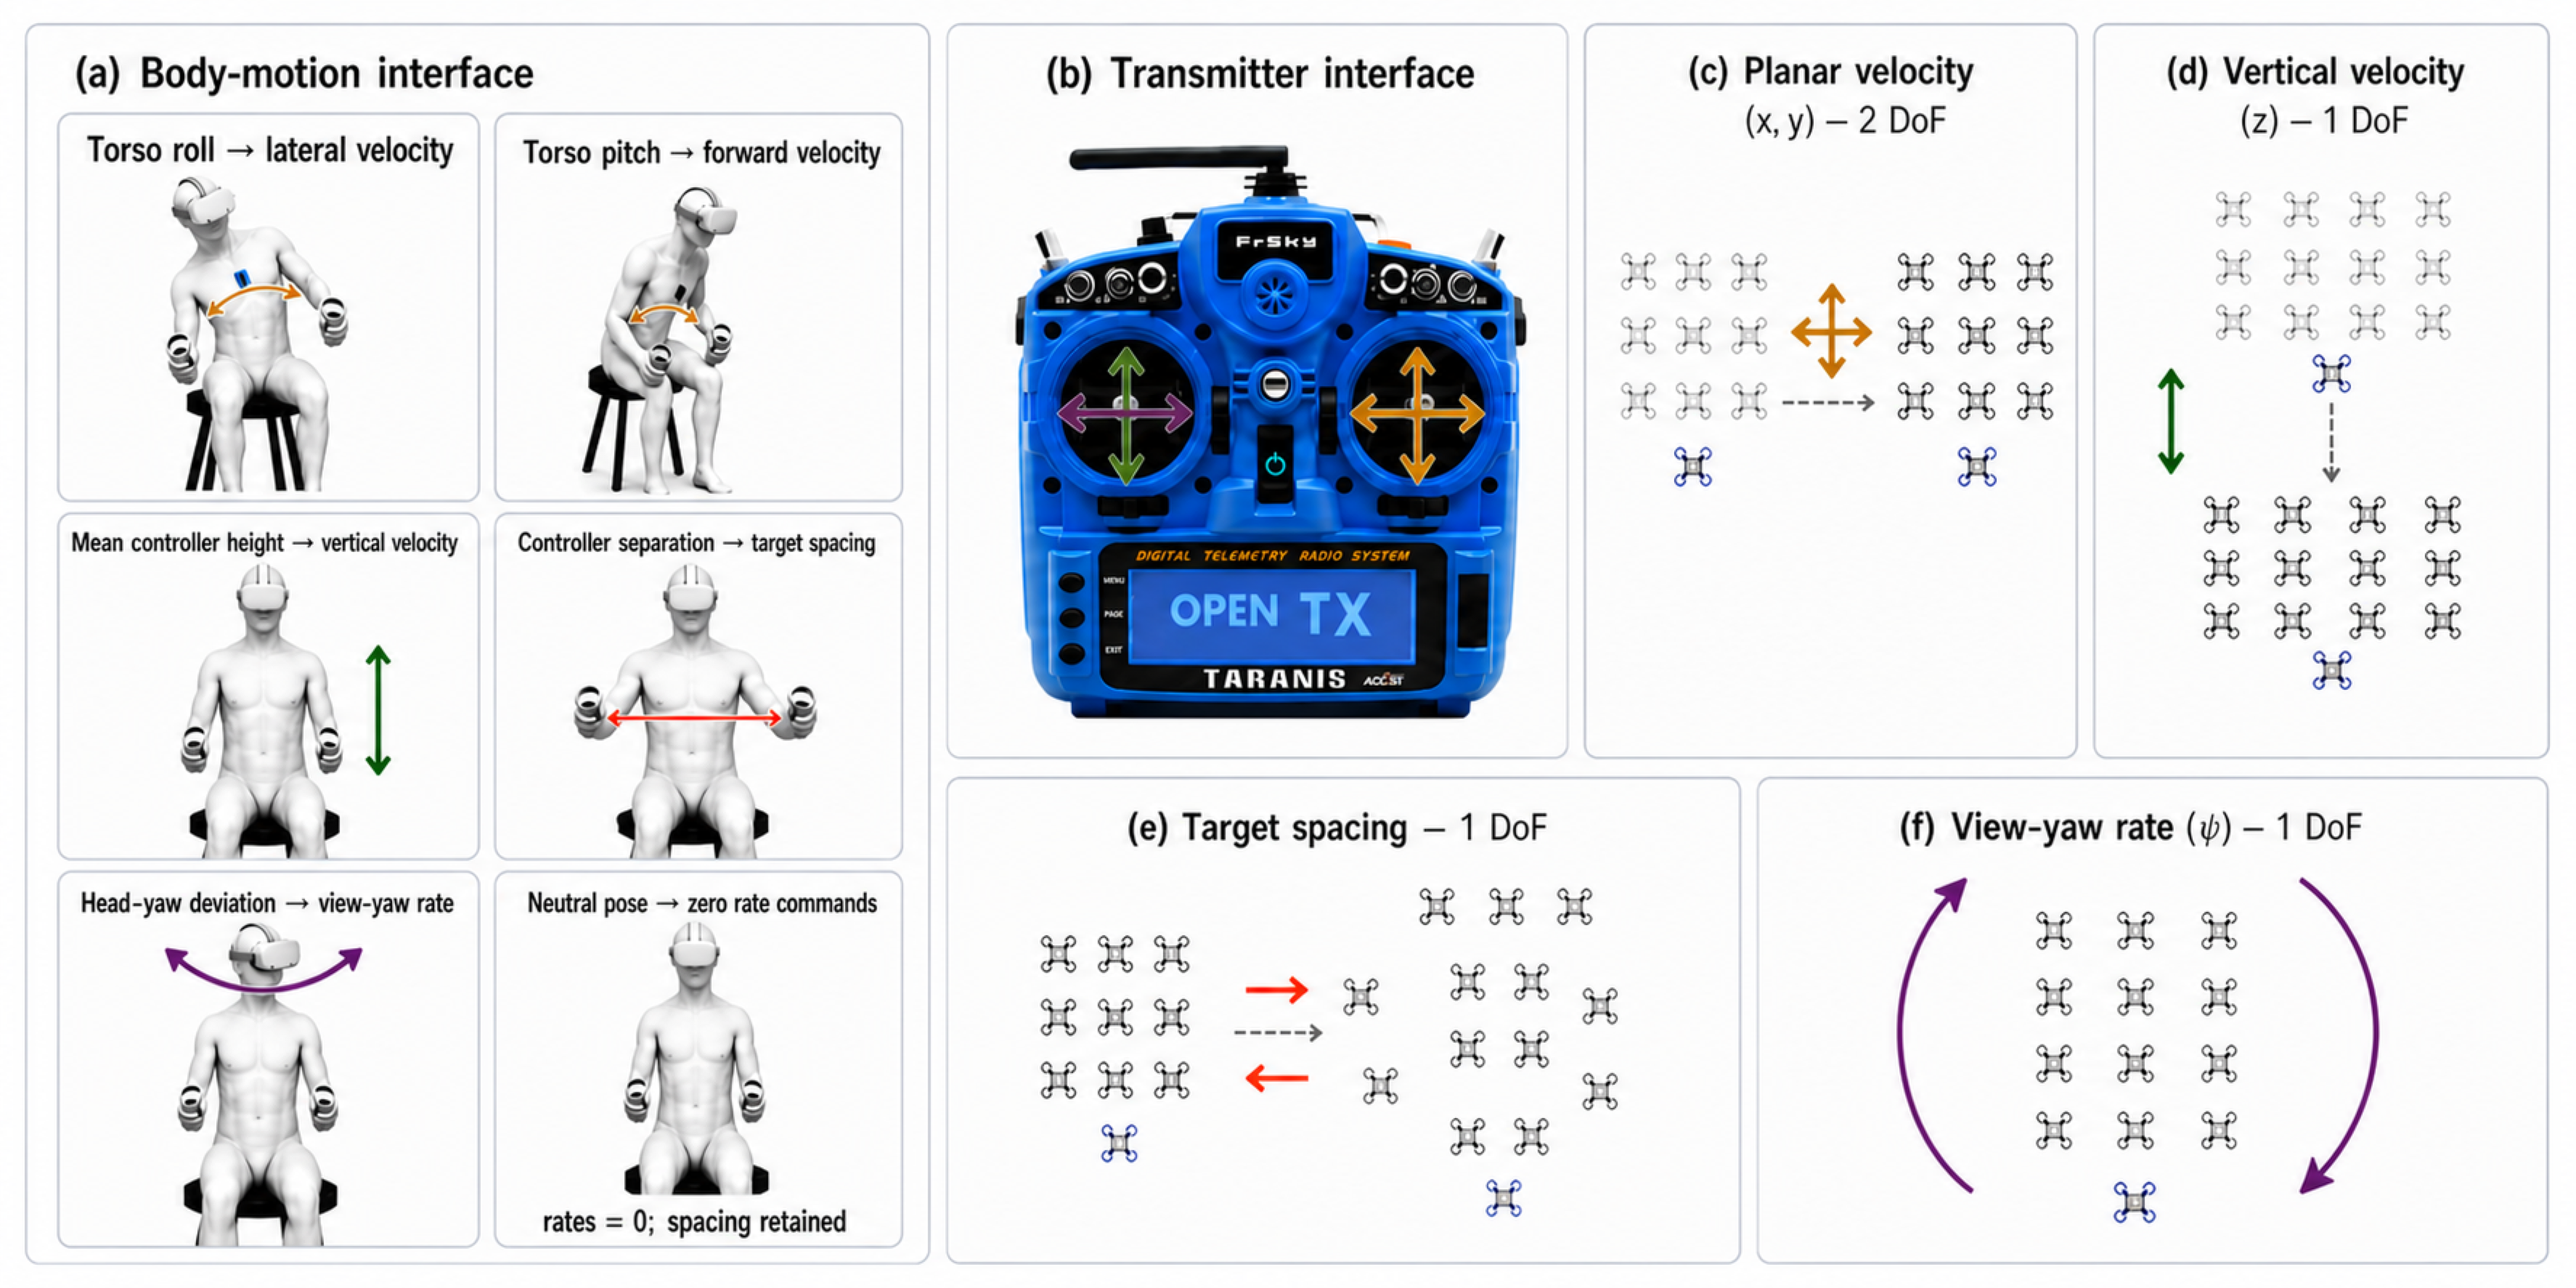
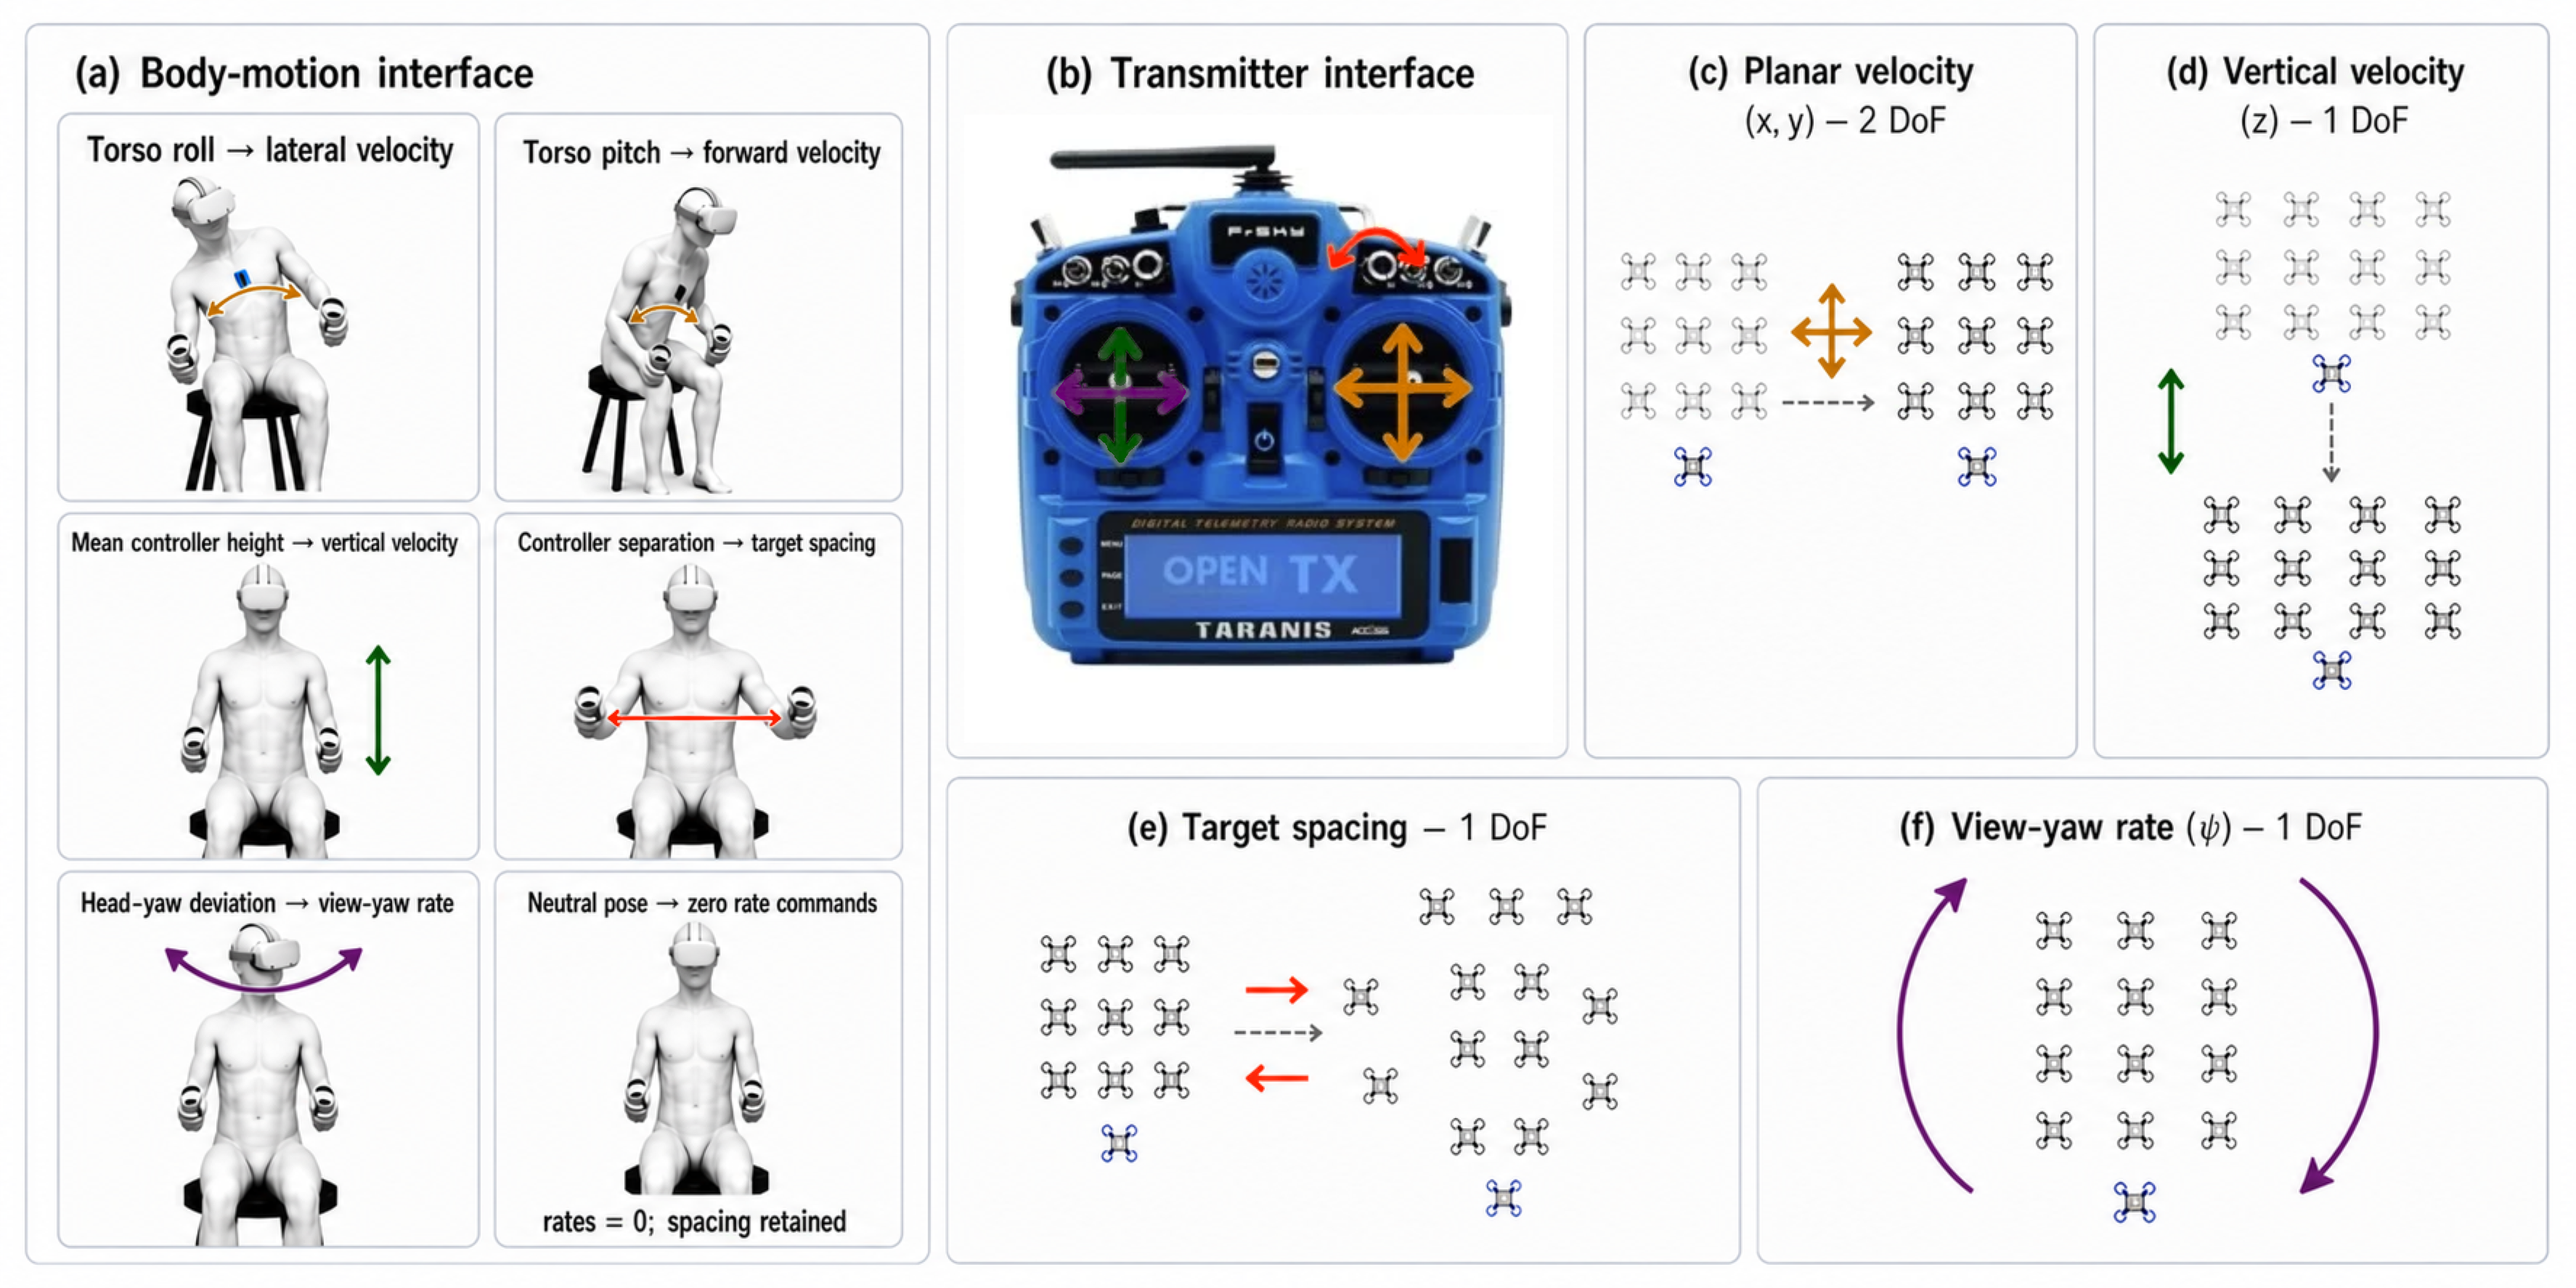
more

Changed region(s): [[0.372, 0.093, 0.5891, 0.5581]]

diff --git a/main.tex b/main.tex
@@ -81,8 +81,7 @@ streamed from a \emph{focal agent}, the swarm member whose onboard camera
 currently supplies the operator's view. The source can transfer if that agent
 becomes unavailable~\cite{ben_focaldrone}. However, the limited field of view
 and occlusions hide parts of the swarm and environment, while the viewpoint
-moves, rotates, and may transfer between agents. FPV therefore limits global
-awareness while the operator coordinates several swarm DOF.
+moves, rotates, and may transfer between agents.
 
 \begin{figure}[!t]
 \centering
@@ -174,22 +173,17 @@ filtering differed.
 \begin{figure*}[t]
 \centering
 \includegraphics[width=\textwidth]{Figures/hom.png}
-\caption{Body-to-swarm control mappings. Panels (a)--(e) map torso roll, torso
-pitch, mean controller height, controller separation, and head-yaw deviation to
-lateral velocity, forward velocity, vertical velocity, target spacing, and
-view-yaw rate, respectively. Panel (f) shows the neutral pose, which produces
-zero rate commands while retaining the current spacing setpoint. Faded
-formations illustrate the commanded translation, spacing change, or view
-rotation.}
+\caption{Control mappings for the body-motion and transmitter interfaces:
+(a) body-to-swarm mappings, (b) transmitter mappings, and (c)--(f) the
+resulting swarm translation, spacing, and view rotation.}
 \label{fig:mapping}
 \end{figure*}
 
 \subsection{Body-to-Swarm Mapping}
 \label{sec:mapping} 
-The mapping was designed to provide intuitive spatial correspondence and allow
-vseveral commands to be used simultaneously. Building on previous body-motion drone interfaces that mapped torso inclination to aircraft pitch and roll\cite{rognon2018flyjacket}, we mapped forward, backward, and lateral leaning to the corresponding planar motion of the swarm. Raising or lowering
-both hands controlled vertical motion, while hand separation controlled agent
-spacing. Because participants were seated, head rotation provided a natural
+The mapping was designed to provide intuitive spatial correspondence and allows several commands to be used simultaneously. Building on previous body-motion drone interfaces that mapped torso inclination to aircraft pitch and roll\cite{rognon2018flyjacket}, we mapped forward, backward, and lateral leaning to the corresponding planar motion of the swarm. Raising or lowering
+both hands were designed to control the vertical motion, while hand separation was used for agent
+spacing. Because in teleoperation participants are ususally in a fixed position, head rotation can provide a natural
 input for FPV yaw. Participant-specific calibration accounted for differences
 in posture and range of motion.
 
@@ -471,11 +465,7 @@ intentional coordination.
 \centering
 \includegraphics[width=0.9\columnwidth]
 {Figures/fig_subjective_responses.png}
-\caption{Comparative responses after both interface blocks (n = 14). The
-upper bar shows interface preference, and the lower bar shows the interface
-associated with greater motion sickness. Neutral denotes no preference in
-the upper bar and no difference in motion sickness in the lower bar. Counts
-are descriptive; no inferential comparison was performed.}
+\caption{Comparative responses after both interface blocks (n = 14). The upper bar shows interface preference, and the lower bar shows the interface associated with greater motion sickness. Neutral denotes no preference.}
 \label{fig:subjective_responses}
 \end{figure}
 
@@ -536,7 +526,7 @@ mixed (Fig.~\ref{fig:subjective_responses}).
 \centering
 \includegraphics[width=0.9\textwidth]
 {Figures/yeah.png}
-\caption{Representative 90$^\circ$ turn for P02, shown from 5~s before G5 to the G6 crossing. (a) Top-view swarm-centroid trajectories. (b) Delivered commands aligned to G5 ($t=0$); solid blue indicates body motion and dashed orange indicates the transmitter. Vertical lines mark the G6 crossings. The lower panel shows whether the delivered forward command was positive (ON) or non-positive (OFF). It was ON for 95.5\% of the displayed body-motion interval and 61.3\% of the displayed transmitter interval.}
+\caption{Representative 90$^\circ$ turn, shown from 5~s before G5 to the G6 crossing. (a) Top-view swarm-centroid trajectories. (b) Delivered commands aligned to G5 ($t=0$); solid blue indicates body motion and dashed orange indicates the transmitter. Vertical lines mark the G6 crossings. The lower panel shows whether the delivered forward command was positive (ON) or non-positive (OFF). It was ON for 95.5\% of the displayed body-motion interval and 61.3\% of the displayed transmitter interval.}
 \label{fig:traj_gate}
 \end{figure*}
 
@@ -558,7 +548,7 @@ paths and (b) gate-aligned heights under each interface. Thin lines show
 non-focal agents, thick lines show the focal agent, and black markers show gate
 locations and vertical openings.}
 \label{fig:trajectory_overlays}
-\end{figure}
+\end{figure}m
 The trajectory improvement was concentrated in the vertical dimension. The
 larger vertical reversals in Fig.~\ref{fig:trajectory_overlays}(b) are
 consistent with repeated altitude corrections under transmitter control,
@@ -592,7 +582,9 @@ suggesting that physical demand reduced the appeal of the efficiency gain for
 some operators. Future designs could reduce the required arm movement by
 increasing the hand-height gain, although higher gains may reduce fine control.
 
-The main practical benefit is not access to additional commands, because both interfaces controlled the same five DOF, but the ability to combine them in time. In Fig.~\ref{fig:traj_gate}, P02 maintained a positive forward command for most of the body-motion turn while adjusting other commands, whereas the transmitter trace contained several pauses. Together with the group-level
+The main practical benefit is not access to additional commands, because both
+interfaces controlled the same five DOF, but the ability to combine them in
+time, as illustrated in Fig.~\ref{fig:traj_gate}. Together with the group-level
 coordination result, this suggests that concurrent control may help operators resize and redirect the swarm without repeatedly interrupting the forward command. All participants showed higher measured coordination after brief familiarization, so longer training may strengthen this capability.
 
 These findings extend upper-body control from individual aerial
@@ -620,8 +612,10 @@ cost of higher physical demand and with no detected differences in task
 accuracy, swarm integrity, total workload, or usability. Validation on physical
 swarms remains necessary. For first-person-view swarm teleoperation, these
 results support distributing the command dimensions that vary together across
-separate body segments rather than across controls on a single handheld device. They also suggest that referencing hand height to the torso rather than to the
-world would reduce the postural coupling that participants reported.
+separate body segments rather than across controls on a single handheld device. 
+
+%They also suggest that referencing hand height to the torso rather than to the
+% world would reduce the postural coupling that participants reported.
 
 % =====================================================================
 
